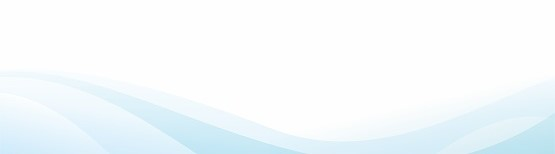
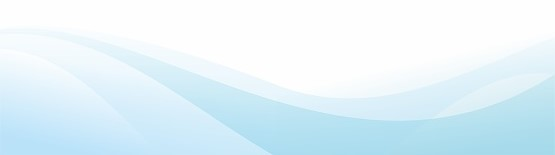
9th commit

diff --git a/css/header.css b/css/header.css
@@ -11,7 +11,7 @@
   
   background-color: #17bc9c;
   font-size: 24px;
-  font-weight: 600;
+  /* font-weight: 600; */
 
   position: fixed;
   width: 100vw;
@@ -32,18 +32,24 @@
     text-decoration: none;
   
 }
+.navlist a :hover{
+   color: white;
+   background-color: black;
+   border-radius: 10px;
+}
 
 .navlist li{
 list-style: none;
 padding-right: 40px;
 padding-left: 40px;
 }
+
 .burger{
   display: none;
   position: absolute;
   cursor: pointer;
   right: 5%;
-  top: 15px;
+  top: 10px;
 
 }
 .line{
@@ -58,7 +64,7 @@ padding-left: 40px;
 @media only screen and (max-width: 800px) {
   .navbar{
       flex-direction: column;
-      height: 70vh;
+      height: 40vh;
 
      
   }
@@ -78,7 +84,7 @@ padding-left: 40px;
     display: block;
 }
  .h-nav{
-    height: 12vh;
+    height: 8vh;
 }
  .v-class{
     opacity: 0;

diff --git a/service.html b/service.html
@@ -25,20 +25,22 @@
     <body>
         <div id="header"></div>
         <div class="service">
+            <div class="service-name">
+                <h1>This is Service page</h1>
+            </div>
 
-           <h1>This is service page</h1>
-        </div>
-
-           <div class="service-content">
-            <h1>Service Content</h1>
+         <div class="service-content">
+              <h1>Service Content</h1>
             <a href="#">Digital Marketing Services</a>
             <a href="#">Web Design Services</a>
             <a href="#">Social Media Marketing</a>
             <a href="#">eCommerce Marketing</a>
             <a href="#">Amazon Marketing Services</a>
             
-          
         </div>
+        </div>
+
+           
            <div id="footer"></div>
     </body>
 </html>

diff --git a/css/careers.css b/css/careers.css
@@ -1,10 +1,26 @@
-.careers{
-    height: 100vh;
-    display: flex;
-    justify-content: center;
-    align-items: center;
-    background-image: url('/image/bg1.jpg');
-    background-repeat: repeat-y;
-  background-attachment: fixed;
-    background-size: 100%;
+.careers-name{
+  height: 50vh;
+  display: flex;
+  justify-content: center;
+  align-items: center;
+  background-image: url('/image/bg1_01.jpg');
+  background-repeat:no-repeat;
+background-attachment: fixed;
+  background-size: 100%;
+}
+
+.careers-content{
+height: 100vh;
+
+display: flex;
+justify-content: center;
+align-items: center;
+
+}
+.careers-con1{
+width: 60vw;
+background-color: rgb(232, 223, 223);
+display: flex;
+justify-content: center;
+align-items: center;
 }

diff --git a/css/about.css b/css/about.css
@@ -1,10 +1,26 @@
-.about{
-    height: 100vh;
-    display: flex;
-    justify-content: center;
-    align-items: center;
-    background-image: url('/image/bg1.jpg');
-    background-repeat: repeat-y;
-  background-attachment: fixed;
-    background-size: 100%;
+.about-name{
+  height: 50vh;
+  display: flex;
+  justify-content: center;
+  align-items: center;
+  background-image: url('/image/bg1_01.jpg');
+  background-repeat:no-repeat;
+background-attachment: fixed;
+  background-size: 100%;
+}
+
+.about-content{
+height: 100vh;
+
+display: flex;
+justify-content: center;
+align-items: center;
+
+}
+.about-con1{
+width: 60vw;
+background-color: rgb(232, 223, 223);
+display: flex;
+justify-content: center;
+align-items: center;
 }

diff --git a/css/contact.css b/css/contact.css
@@ -1,10 +1,25 @@
-.contact{
-    height: 100vh;
+.contact-name{
+    height: 50vh;
     display: flex;
     justify-content: center;
     align-items: center;
-    background-image: url('/image/bg1.jpg');
-    background-repeat: repeat-y;
+    background-image: url('/image/bg1_01.jpg');
+    background-repeat: no-repeat;
   background-attachment: fixed;
     background-size: 100%;
+}
+.contact-content{
+  height: 100vh;
+  
+  display: flex;
+  justify-content: center;
+  align-items: center;
+
+}
+.contact-con1{
+  width: 60vw;
+  background-color: rgb(232, 223, 223);
+  display: flex;
+  justify-content: center;
+  align-items: center;
 }

diff --git a/css/index.css b/css/index.css
@@ -1,10 +1,26 @@
-.home{
-    height: 100vh;
+.home-name{
+    height: 50vh;
     display: flex;
     justify-content: center;
     align-items: center;
-    background-image: url('/image/bg1.jpg');
-    background-repeat: repeat-y;
+    background-image: url('/image/bg1_01.jpg');
+    background-repeat:no-repeat;
   background-attachment: fixed;
     background-size: 100%;
+}
+
+.home-content{
+  height: 100vh;
+  
+  display: flex;
+  justify-content: center;
+  align-items: center;
+
+}
+.home-con1{
+  width: 60vw;
+  background-color: rgb(232, 223, 223);
+  display: flex;
+  justify-content: center;
+  align-items: center;
 }

diff --git a/css/service.css b/css/service.css
@@ -1,17 +1,20 @@
-body{
-    background-image: url('/image/bg1.jpg');
-    background-repeat: no-repeat;
-    background-attachment: fixed;
-    background-size: 100%;
-}
-.service{
+
+.service-name{
     height: 50vh;
     display: flex;
     justify-content: center;
     align-items: center;
-    
-    
+    background-image: url('/image/bg1_01.jpg');
+    background-repeat:no-repeat;
+  background-attachment: fixed;
+    background-size: 100%;
 }
+
+.service-content{
+  height: 100vh;
+
+}
+
 .service-content h1{
   
     text-align: center;

diff --git a/careers.html b/careers.html
@@ -26,8 +26,15 @@
         <div id="header"></div>
 
         <div class="careers">
-            <h1>This is Careers page</h1>
-
+            <div class="careers-name">
+                <h1>This is Careers Page</h1>
+            </div>
+            <div class="careers-content">
+                <div class="careers-con1">
+                    <h1>This Careers-con</h1>
+                </div>
+            </div>
+            
         </div>
            
            <div id="footer"></div>

diff --git a/contact.html b/contact.html
@@ -26,7 +26,15 @@
         <div id="header"></div>
 
         <div class="contact">
-            <h1>This is Contact page</h1>
+            <div class="contact-name">
+                <h1>This is Contact page</h1>
+            </div>
+            <div class="contact-content">
+                <div class="contact-con1">
+                    <h1>This home-con</h1>
+                </div>
+            </div>
+            
         </div>
            
            <div id="footer"></div>

diff --git a/about.html b/about.html
@@ -25,8 +25,15 @@
     <body>
         <div id="header"></div>
         <div class="about">
+            <div class="about-name">
+                <h1>This is About Page</h1>
+            </div>
+            <div class="about-content">
+                <div class="about-con1">
+                    <h1>This About-con</h1>
+                </div>
+            </div>
             
-            <h1>This is About page</h1>
         </div>
           
            <div id="footer"></div>

diff --git a/index.html b/index.html
@@ -23,8 +23,15 @@
     <body>
         <div id="header"></div>
         <div class="home">
+            <div class="home-name">
+                <h1>This is Home Page</h1>
+            </div>
+            <div class="home-content">
+                <div class="home-con1">
+                    <h1>This home-con</h1>
+                </div>
+            </div>
             
-            <h1>This is Home Page</h1>
         </div>
         <div id="footer"></div>
        

diff --git a/header.html b/header.html
@@ -8,6 +8,7 @@
         <meta name="description" content="">
         <meta name="viewport" content="width=device-width, initial-scale=1">
         <link rel="stylesheet" href="css/header.css">
+        <link href="https://fonts.googleapis.com/css2?family=Baloo+Bhai+2&display=swap" rel="stylesheet">
     </head>
     <body>
       <div class="navbar h-nav">
